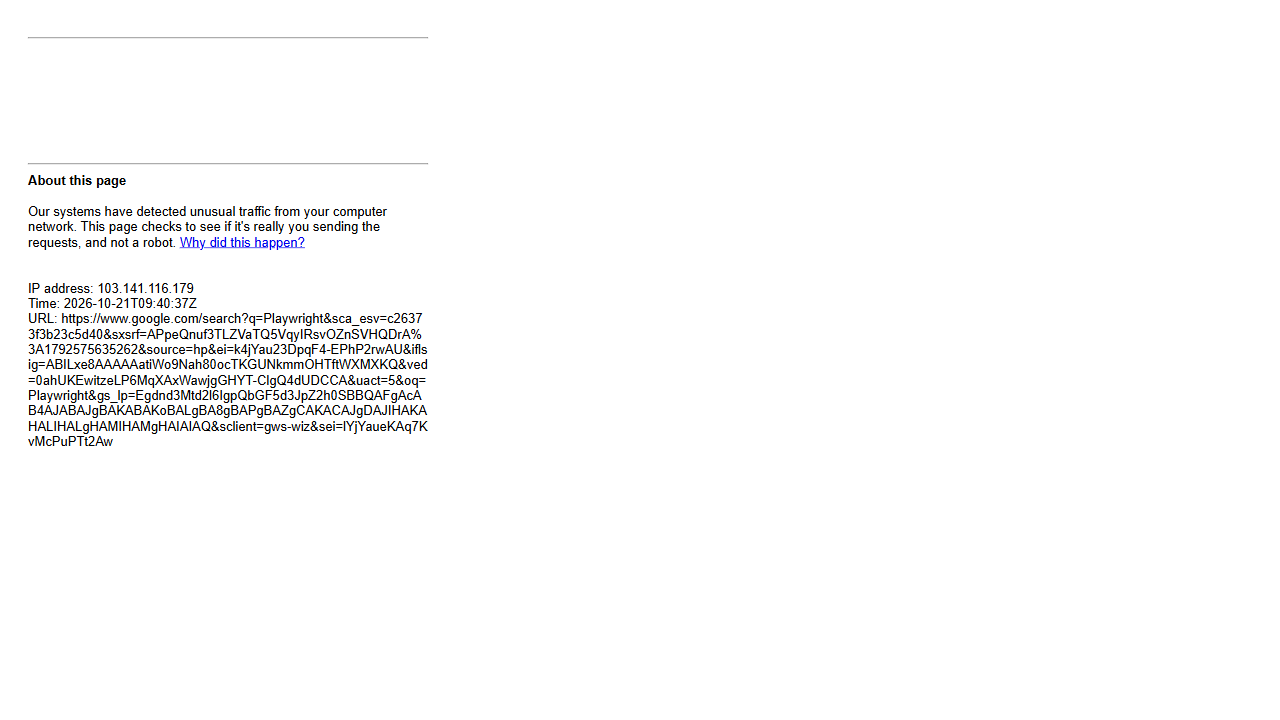
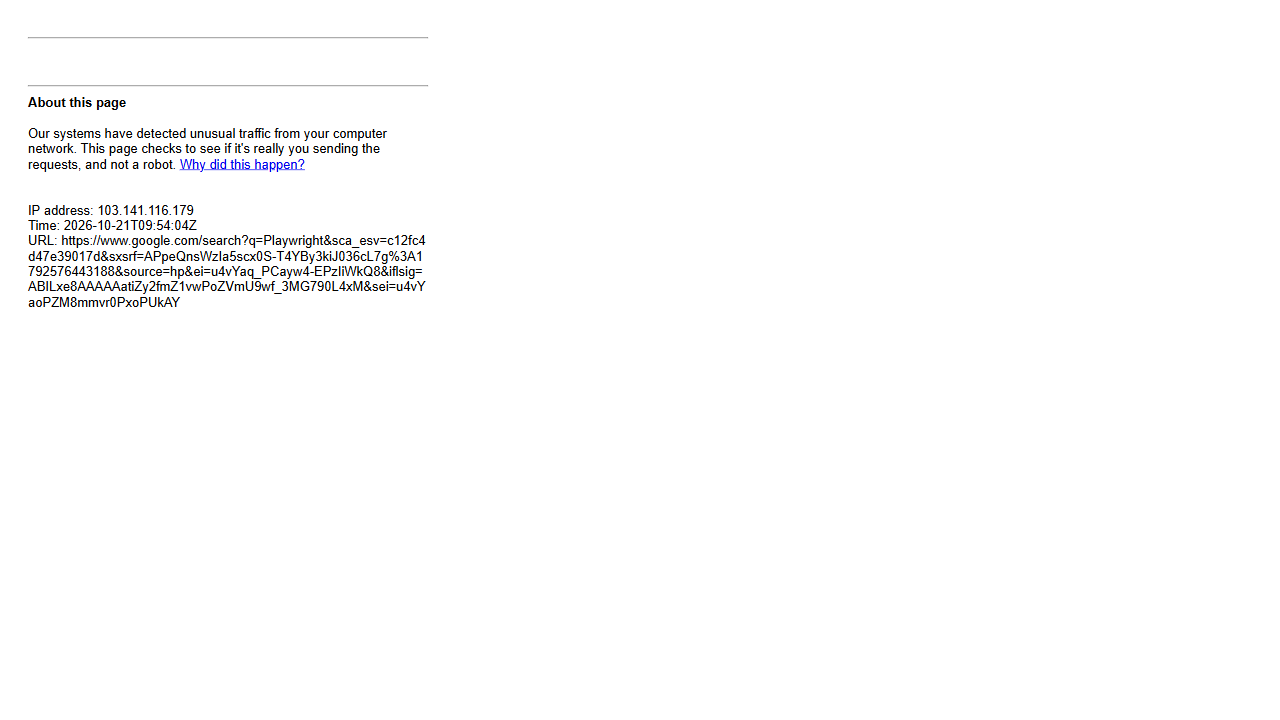
advanced locators

Changed region(s): [[0.0, 0.1833, 0.3438, 0.6417], [0.0312, 0.1222, 0.0938, 0.1528]]

diff --git a/tests/UIBasics3.spec.js b/tests/UIBasics3.spec.js
@@ -1,0 +1,40 @@
+const {test, expect} = require('@playwright/test');
+// Locators:
+// xpath
+// css selector
+// attribute
+// nth child
+
+// how to wait for the element to be visible - waitForLoadState('networkidle'), waitForNetworkIdle
+
+test.only('Basic UI Test8', async ({page}) =>
+{
+    // wait for the element to be visible - waitFor
+    await page.goto('https://www.myntra.com/shop/men');
+    const navBar = page.locator('div.desktop-navContent');
+    const navBarItems = navBar.locator('div.desktop-navLink > a');
+    await navBarItems.first().waitFor();
+    console.log(await navBarItems.allTextContents());
+
+    // xpath locator
+    await navBarItems.first().waitFor();
+    const xpathLocator = page.locator('//div[@class="desktop-navLink"]//div[@class="desktop-navContent"]//a');
+    console.log(await xpathLocator.allTextContents());
+
+    // css selector locator
+    await navBarItems.first().waitFor();
+    const cssSelectorLocator = page.locator('div.desktop-navLink div.desktop-navContent a');
+    console.log(await cssSelectorLocator.allTextContents());
+
+    // attribute locator
+    await navBarItems.first().waitFor();
+    const attributeLocator = page.locator('div.desktop-navLink div.desktop-navContent a[href]');
+    console.log(await attributeLocator.allTextContents());
+
+    // nth child locator
+    await navBarItems.first().waitFor();
+    const nthChildLocator = page.locator('div.desktop-navLink div.desktop-navContent a:nth-child(1)');
+    console.log(await nthChildLocator.allTextContents());
+
+    await page.close();
+});

diff --git a/tests/UIBasics2.spec.js b/tests/UIBasics2.spec.js
@@ -4,16 +4,19 @@
 
 const {test, expect} = require('@playwright/test');
 
-test.only('Basic UI Test7', async ({page}) =>
+test('Basic UI Test7', async ({page}) =>
 {
+    await page.goto('https://devyanit05.github.io/personal-portfolio/');
+
     const projects = await page.locator('a.btn-primary').first();
     const eyebrow = await page.locator('.hero-inner .eyebrow');
 
-    await page.goto('https://devyanit05.github.io/personal-portfolio/');
     await projects.click();
     await page.waitForTimeout(1000);
     await page.screenshot({path: 'screenshot5.png'});
-    await expect(eyebrow).toContainText(/devops/i);
+    const eyebrowText = await page.locator('.hero-inner .eyebrow').textContent();
+    console.log(eyebrowText);
+    // await expect(eyebrow).toContainText(/devops/i);
     console.log(await page.locator('div.about-copy').textContent());
 
     await page.goto('https://google.com');

diff --git a/tests/UIBasics4.spec.js b/tests/UIBasics4.spec.js
@@ -1,0 +1,10 @@
+// UI elements - click, fill, press, select, hover, scroll, etc.
+// Handling UI Components - dropdown, modal, popup, alert, radio button, checkbox, etc.
+
+const {test, expect} = require('@playwright/test');
+
+test('Basic UI Test9', async ({page}) =>
+{
+    await page.goto('https://www.myntra.com/shop/men');
+    await page.close();
+});
